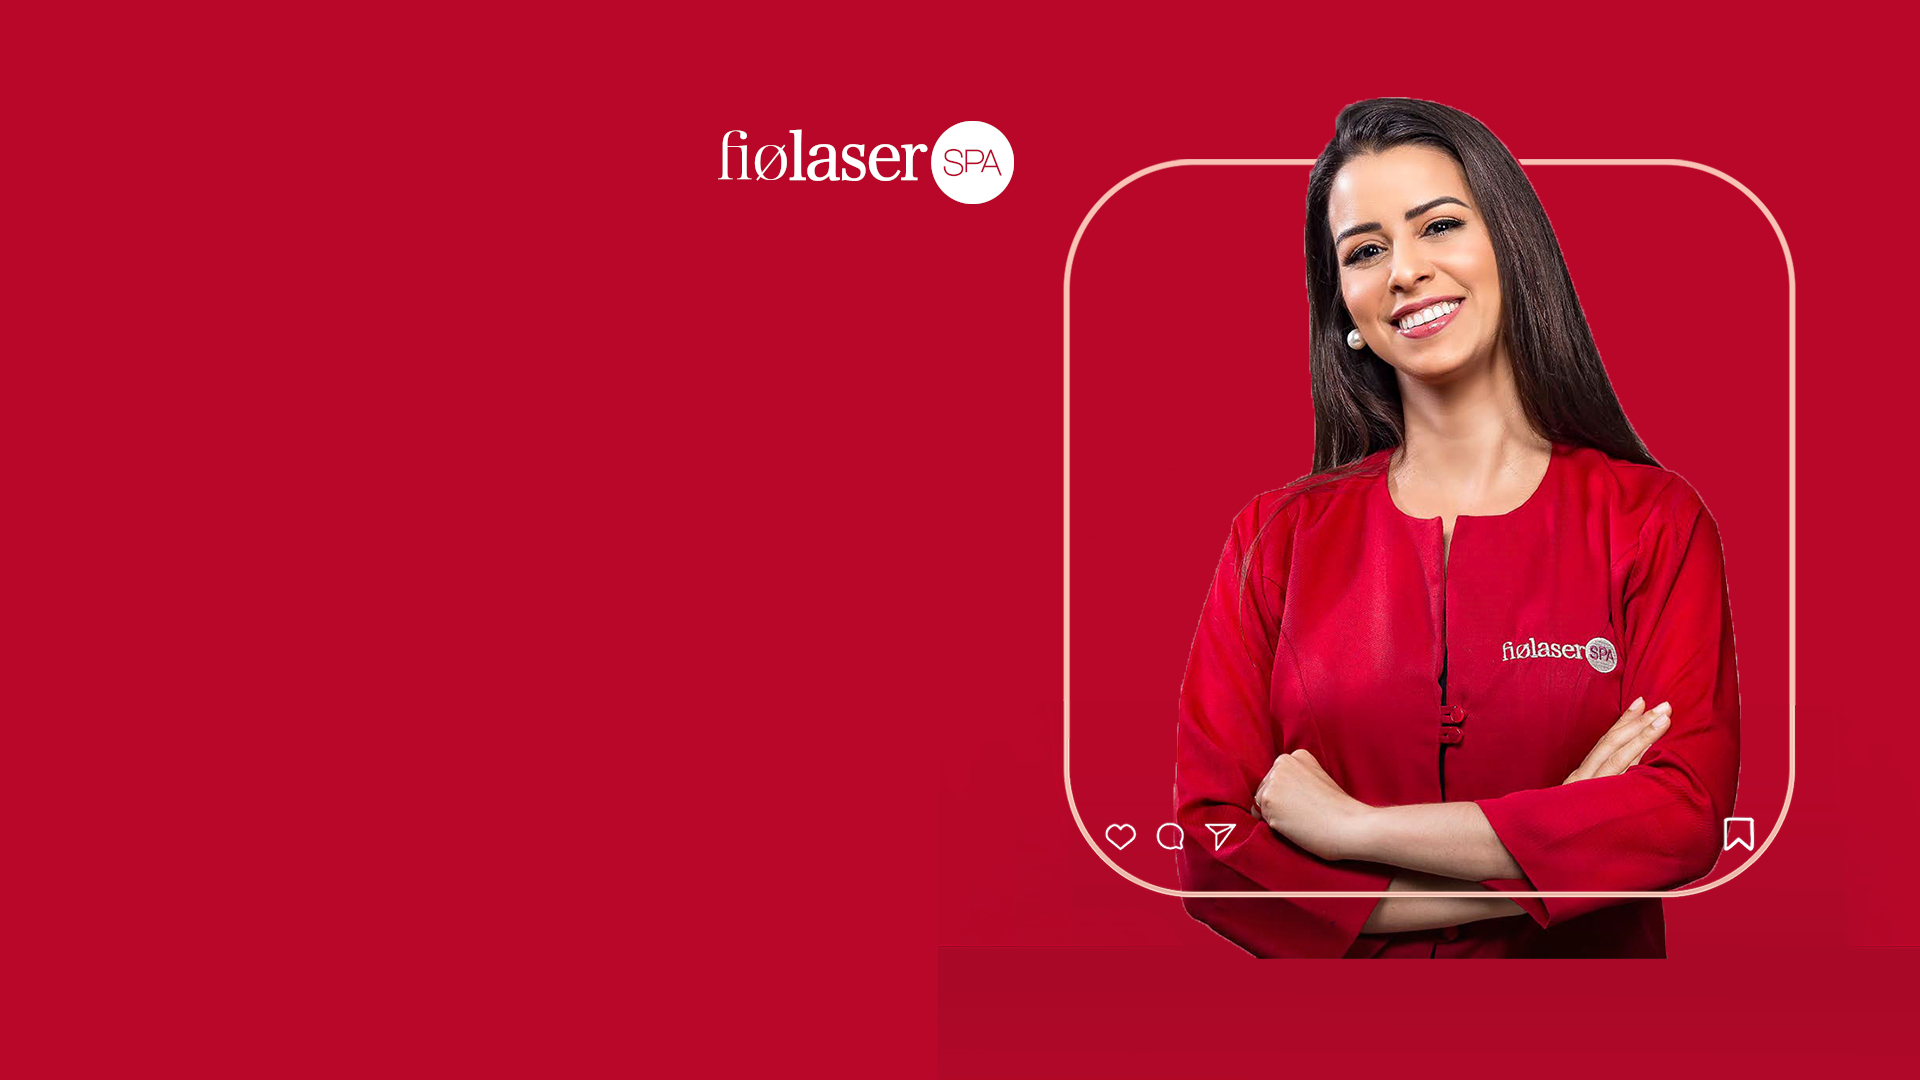
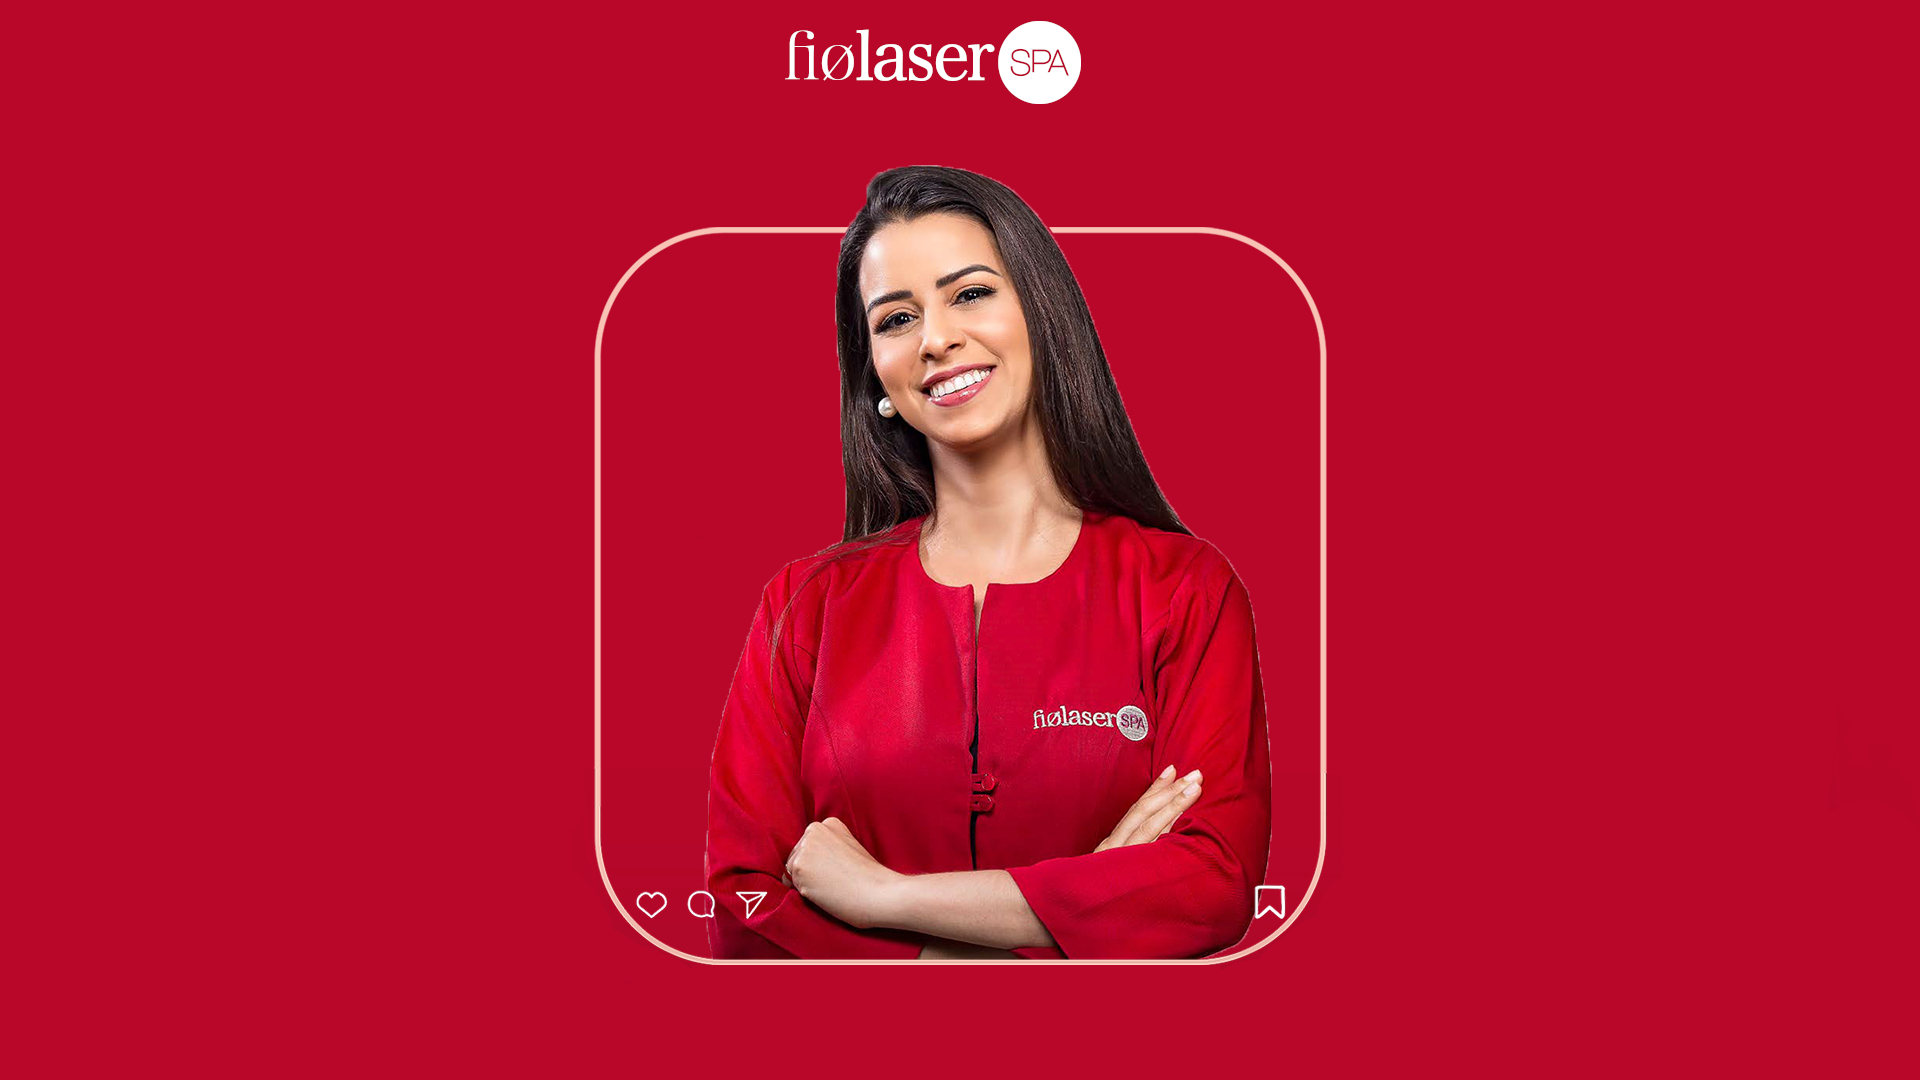
Add files via upload

diff --git a/css/style.css b/css/style.css
@@ -464,6 +464,37 @@ h1, h2, h3, h4, h5, h6 {
     -webkit-box-shadow: 4px 0 20px -5px rgba(0, 0, 0, 0.6);
     box-shadow: 4px 0 20px -5px rgba(0, 0, 0, 0.6); }
 
+
+    .titulo {
+      font-size: 50px;
+
+width: 100%;
+position: relative;
+min-height: 1px;
+align-items: center;
+display: flex;
+height: 500px;
+color: #fff;
+padding-top: 160px;
+    }
+    @media (min-width: 768px) {
+      .titulo {
+        position: relative;
+
+      } }
+      @media (min-width: 400px) {
+        .titulo {
+          position: relative;
+          
+        } }
+
+    #home-section
+    {
+      position: relative;
+      height: 100%;
+    }
+
+   
 /* Blocks */
 .site-blocks-cover {
   background-size: cover;
@@ -481,8 +512,18 @@ h1, h2, h3, h4, h5, h6 {
       top: 0;
       background: rgba(0, 0, 0, 0.4); }
   .site-blocks-cover, .site-blocks-cover .row {
-    min-height: 600px;
-    height: calc(100vh); }
+    
+    
+    @media (min-width: 768px) {
+      .site-blocks-cover, .site-blocks-cover .row {
+        position: relative;
+
+      } }
+      @media (min-width: 400px) {
+        .site-blocks-cover, .site-blocks-cover .row {
+          position: relative;
+          
+        } }
   .site-blocks-cover.inner-page, .site-blocks-cover.inner-page .row {
     min-height: 600px;
     height: calc(80vh); }
@@ -505,8 +546,9 @@ h1, h2, h3, h4, h5, h6 {
         color: #b80729; }
     @media (min-width: 768px) {
       .site-blocks-cover h1 {
-          font-size: 44px;
-        padding-right: 500px; } }
+        font-size: 44px;
+        padding-right: 500px;
+      } }
   .site-blocks-cover p {
     color: #fff;
     font-size: 1.5rem;
